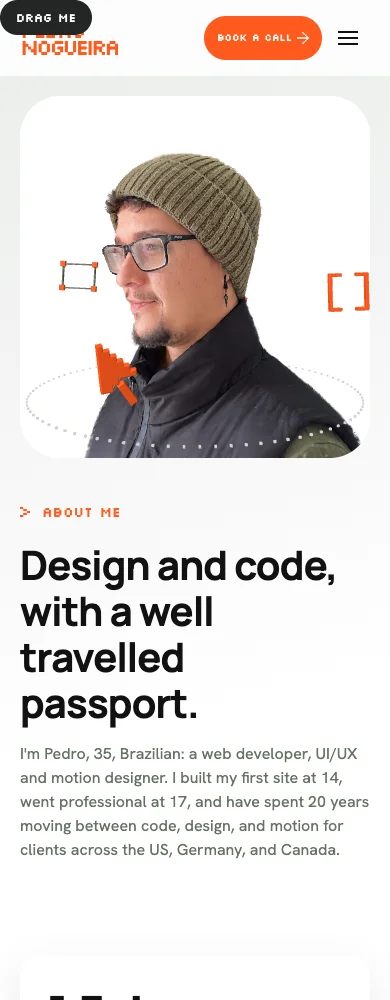
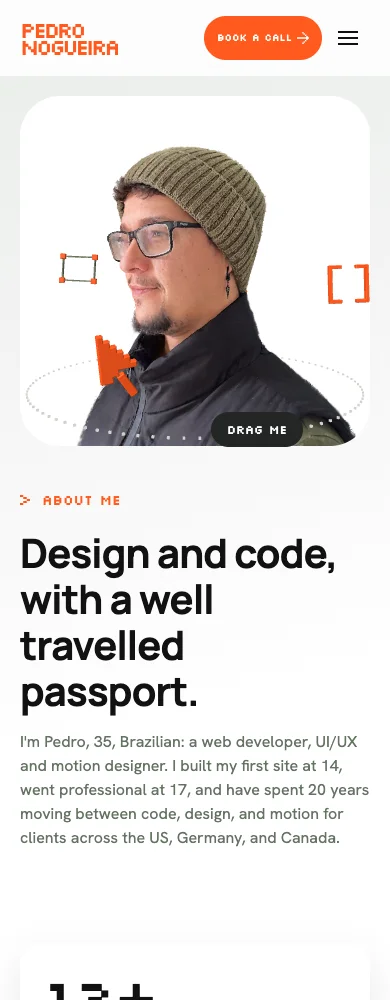
Keep mobile portrait canvas square

diff --git a/src/styles/page-fidelity.css b/src/styles/page-fidelity.css
@@ -88,7 +88,7 @@
 }
 @media (max-width:768px) {
  .about-page .about-hero { grid-template-columns:1fr; padding:20px 20px 30px; gap:40px; }
- .about-page .about-portrait { width:100%; height:auto; aspect-ratio:350 / 361.99; border-radius:40px; }
+ .about-page .about-portrait { width:100%; height:auto; aspect-ratio:1; border-radius:40px; }
  .about-page .about-hero h1 { font-size:40px; line-height:1.15; letter-spacing:-.02em; }
  .about-page .about-hero > div > p:not(.section-eyebrow) { font-size:16px; line-height:1.5; }
  .about-page .about-stats { padding:64px 20px; }

diff --git a/docs/validation/satin-orbit/README.md b/docs/validation/satin-orbit/README.md
@@ -4,7 +4,7 @@ Procedural rounded strokes and a continuous beveled cursor replace the flat box 
 
 Icons and ring write depth before splat compositing. Stable screen-space opacity coverage preserves per-pixel occlusion through the home fade, without treating a transparent glyph as one sortable surface. Fade duration, slight scale, counter-orbit, heights, drift, tilt and reduced-motion behavior are preserved. Fine-pointer desktops with at least eight reported hardware threads and no Save-Data can use DPR 2; touch/mobile and other clients retain the 1.5 cap. This is a conservative device heuristic, not a hardware benchmark.
 
-Mobile About top padding is now 20px, matching its side gutters (user review follow-up); desktop stays 57px.
+Mobile About top padding is now 20px, matching its side gutters (user review follow-up); desktop stays 57px. The mobile portrait canvas is square, with its width still contained by the 20px side gutters.
 
 Verified in local Chrome against the production build:
 
